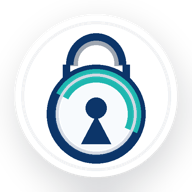
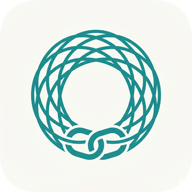
feat: replace brand assets, fix quick-filter active state, remove export from browse
- Replace favicon.ico, logo-mark, apple-touch-icon, icon-192, icon-512 with new woven-nest logo
- Add .button--ghost.is-active CSS rule so Due to revisit / Stale unread buttons visually highlight when active
- Remove Export button from browse page header (it lives in Add Link > Import / Export)

Changed region(s): [[0.1562, 0.125, 0.8438, 0.875], [0.375, 0.9062, 0.6562, 1.0], [0.6562, 0.875, 0.6875, 0.9062]]

diff --git a/public/browse.html b/public/browse.html
@@ -67,7 +67,6 @@
             <div class="browse-actions">
               <button type="button" id="select-toggle-btn" class="button button--ghost">Select</button>
               <a class="button button--ghost" href="/archive.html">Archive</a>
-              <a class="button button--ghost" href="/api/links/export">Export</a>
             </div>
           </div>
           <div id="tag-chips" class="tag-chips hidden"></div>

diff --git a/public/css/styles.css b/public/css/styles.css
@@ -554,6 +554,11 @@ textarea.field {
   color: var(--danger);
   border-color: rgba(214, 64, 69, 0.25);
 }
+.button--ghost.is-active {
+  background: var(--accent);
+  color: #fff;
+  border-color: var(--accent);
+}
 .button:hover { opacity: 0.95; }
 
 .login-submit {
